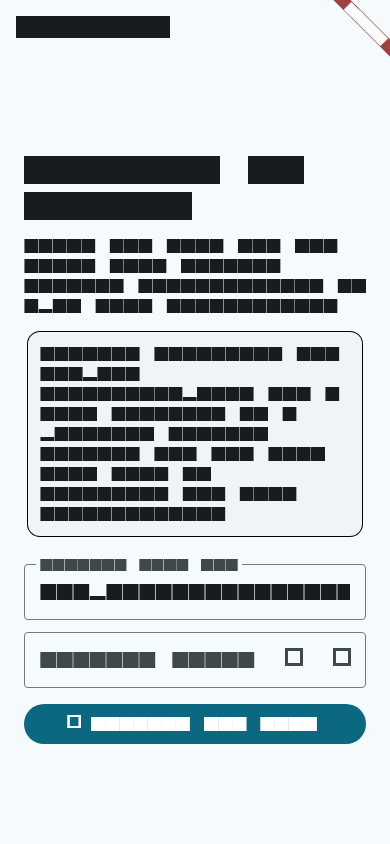
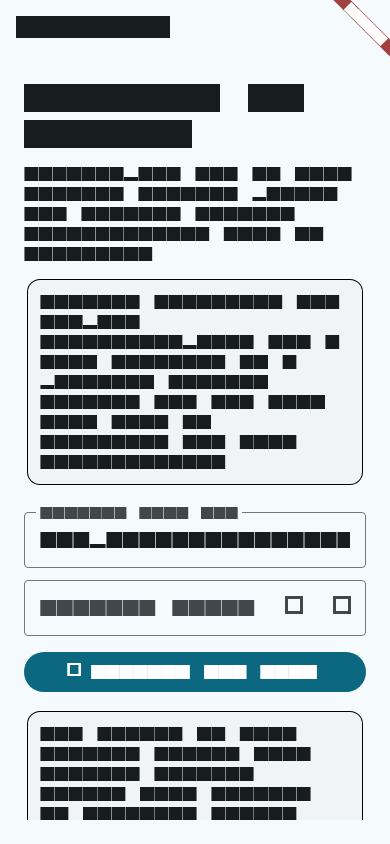
fix: refresh profiles and stabilize setup tests

diff --git a/test/core/channel/gateway_navivox_channel_test.dart b/test/core/channel/gateway_navivox_channel_test.dart
@@ -178,6 +178,97 @@ void main() {
     },
   );
 
+  test('requestAgentList refreshes Gormes profile contacts', () async {
+    var contacts = <Map<String, Object?>>[
+      {
+        'server_id': 'local-gormes',
+        'profile_id': 'mineru',
+        'display_name': 'Mineru Builder',
+        'server_label': 'local',
+        'health': 'online',
+        'latest_preview': 'Initial profile snapshot',
+        'workspace_root_count': 1,
+        'workspace_roots_ok': true,
+        'attention_badges': <String>[],
+        'mic_available': true,
+        'active_turn_state': 'idle',
+      },
+    ];
+    final server = await _FakeGatewayServer.start(
+      contactsProvider: () => contacts,
+    );
+    addTearDown(server.close);
+
+    final channel = GatewayNavivoxChannel();
+    addTearDown(channel.dispose);
+
+    await channel.connect(
+      baseUrl: server.baseUrl,
+      token: _FakeGatewayServer.token,
+    );
+
+    expect(
+      channel.state.profileContacts.single.latestPreview,
+      'Initial profile snapshot',
+    );
+
+    contacts = [
+      {
+        'server_id': 'local-gormes',
+        'profile_id': 'mineru',
+        'display_name': 'Mineru Builder',
+        'server_label': 'local',
+        'health': 'warning',
+        'latest_preview': 'Refreshed profile snapshot',
+        'workspace_root_count': 2,
+        'workspace_roots_ok': false,
+        'workspace_roots_warning': 1,
+        'workspace_roots_error': 0,
+        'attention_badges': ['workspace'],
+        'mic_available': false,
+        'active_turn_state': 'idle',
+      },
+    ];
+
+    final refreshed = Completer<void>();
+    channel.addListener(() {
+      final stateContacts = channel.state.profileContacts;
+      if (stateContacts.length == 1 &&
+          stateContacts.single.latestPreview == 'Refreshed profile snapshot' &&
+          !refreshed.isCompleted) {
+        refreshed.complete();
+      }
+    });
+
+    channel.requestAgentList();
+    await refreshed.future.timeout(const Duration(seconds: 2));
+
+    final contact = channel.state.profileContacts.single;
+    expect(contact.latestPreview, 'Refreshed profile snapshot');
+    expect(contact.health, NavivoxProfileHealth.warning);
+    expect(contact.workspaceRootCount, 2);
+    expect(contact.workspaceRootsOk, isFalse);
+  });
+
+  test('requestAgentList does not repeat unavailable refresh guidance', () async {
+    final channel = GatewayNavivoxChannel();
+    addTearDown(channel.dispose);
+
+    channel.requestAgentList();
+    channel.requestAgentList();
+    await Future<void>.delayed(Duration.zero);
+
+    final refreshMessages = channel.state.messagesList
+        .where(
+          (message) =>
+              message.author == NavivoxMessageAuthor.system &&
+              message.text == 'Connect to Gormes to refresh profiles.',
+        )
+        .toList();
+
+    expect(refreshMessages, hasLength(1));
+  });
+
   test(
     'voice transcript renders locally and submits as a gateway turn',
     () async {
@@ -435,6 +526,7 @@ class _FakeGatewayServer {
     this.port,
     this._streamEvents,
     this._contacts,
+    this._contactsProvider,
   );
 
   static const token = 'nvbx_test_token';
@@ -443,6 +535,7 @@ class _FakeGatewayServer {
   final int port;
   final List<Map<String, Object?>> Function(String requestId)? _streamEvents;
   final List<Map<String, Object?>>? _contacts;
+  final List<Map<String, Object?>> Function()? _contactsProvider;
   final Completer<Map<String, Object?>> _nextClientMessage = Completer();
 
   String get baseUrl => 'http://127.0.0.1:$port';
@@ -452,6 +545,7 @@ class _FakeGatewayServer {
   static Future<_FakeGatewayServer> start({
     List<Map<String, Object?>> Function(String requestId)? streamEvents,
     List<Map<String, Object?>>? contacts,
+    List<Map<String, Object?>> Function()? contactsProvider,
   }) async {
     final server = await HttpServer.bind(InternetAddress.loopbackIPv4, 0);
     final fake = _FakeGatewayServer._(
@@ -459,6 +553,7 @@ class _FakeGatewayServer {
       server.port,
       streamEvents,
       contacts,
+      contactsProvider,
     );
     server.listen(fake._handle);
     return fake;
@@ -483,28 +578,7 @@ class _FakeGatewayServer {
       return;
     }
     if (request.uri.path == '/v1/navivox/profile-contacts') {
-      _writeJson(request.response, {
-        'contacts':
-            _contacts ??
-            [
-              {
-                'server_id': 'navivox-gateway',
-                'profile_id': 'default',
-                'display_name': 'Default profile',
-                'server_label': 'Gormes Gateway',
-                'health': 'online',
-                'latest_preview': 'Gateway online',
-                'latest_preview_kind': 'status',
-                'workspace_root_count': 1,
-                'workspace_roots_ok': true,
-                'workspace_roots_warning': 0,
-                'workspace_roots_error': 0,
-                'attention_badges': <String>[],
-                'mic_available': true,
-                'active_turn_state': 'idle',
-              },
-            ],
-      });
+      _writeJson(request.response, {'contacts': _profileContacts()});
       return;
     }
     if (request.uri.path == '/v1/navivox/stream') {
@@ -523,6 +597,29 @@ class _FakeGatewayServer {
     }
     request.response.statusCode = HttpStatus.notFound;
     await request.response.close();
+  }
+
+  List<Map<String, Object?>> _profileContacts() {
+    return _contactsProvider?.call() ??
+        _contacts ??
+        [
+          {
+            'server_id': 'navivox-gateway',
+            'profile_id': 'default',
+            'display_name': 'Default profile',
+            'server_label': 'Gormes Gateway',
+            'health': 'online',
+            'latest_preview': 'Gateway online',
+            'latest_preview_kind': 'status',
+            'workspace_root_count': 1,
+            'workspace_roots_ok': true,
+            'workspace_roots_warning': 0,
+            'workspace_roots_error': 0,
+            'attention_badges': <String>[],
+            'mic_available': true,
+            'active_turn_state': 'idle',
+          },
+        ];
   }
 
   bool _authorized(HttpRequest request) {

diff --git a/lib/core/channel/gateway_navivox_channel.dart b/lib/core/channel/gateway_navivox_channel.dart
@@ -272,7 +272,39 @@ class GatewayNavivoxChannel extends ChangeNotifier implements NavivoxChannel {
 
   @override
   void requestAgentList() {
-    _appendSystemMessage('Agent listing is not available on this channel yet.');
+    unawaited(_refreshProfileContacts());
+  }
+
+  Future<void> _refreshProfileContacts() async {
+    final client = _client;
+    if (client == null) {
+      _appendSystemMessage('Connect to Gormes to refresh profiles.');
+      return;
+    }
+    try {
+      final contactPayloads = await client.profileContacts();
+      final profileContacts = contactPayloads
+          .map(_profileContactFromJson)
+          .toList(growable: false);
+      final contacts = profileContacts.isEmpty
+          ? [_fallbackProfileContact()]
+          : profileContacts;
+      final selectedKey =
+          contacts.any(
+            (contact) => contact.key == _state.selectedProfileContactKey,
+          )
+          ? _state.selectedProfileContactKey
+          : contacts.first.key;
+      _state = _state.copyWith(
+        servers: _serversFromProfileContacts(contacts, client.config),
+        activeServerId: contacts.first.serverId,
+        profileContacts: contacts,
+        selectedProfileContactKey: selectedKey,
+      );
+      notifyListeners();
+    } catch (_) {
+      _appendSystemMessage('Could not refresh Gormes profiles.');
+    }
   }
 
   @override
@@ -593,6 +625,14 @@ class GatewayNavivoxChannel extends ChangeNotifier implements NavivoxChannel {
   }
 
   void _appendSystemMessage(String text) {
+    final messages = _state.messagesList;
+    final lastMessage = messages.isEmpty ? null : messages.last;
+    if (lastMessage?.author == NavivoxMessageAuthor.system &&
+        lastMessage?.kind == NavivoxMessageKind.text &&
+        lastMessage?.text == text) {
+      return;
+    }
+
     _putMessage(
       NavivoxChatMessage(
         id: _uuid.v4(),

diff --git a/test/e2e/connect_and_talk_web_e2e_test.dart b/test/e2e/connect_and_talk_web_e2e_test.dart
@@ -9,6 +9,9 @@ void main() {
   testWidgets('web browser e2e failed setup keeps token secret and retryable', (
     tester,
   ) async {
+    await tester.binding.setSurfaceSize(const Size(900, 1200));
+    addTearDown(() => tester.binding.setSurfaceSize(null));
+
     final channel = FailingConnectChannel();
     addTearDown(channel.dispose);
 
@@ -28,7 +31,8 @@ void main() {
       find.widgetWithText(TextField, 'Pairing token'),
       'nvbx_super_secret_token',
     );
-    await tester.tap(find.text('Connect and talk'));
+    await tester.ensureVisible(_connectAndTalkButton());
+    await tester.tap(_connectAndTalkButton());
     await tester.pumpAndSettle();
 
     expect(find.text('Could not connect to Gormes gateway.'), findsOneWidget);
@@ -44,6 +48,9 @@ void main() {
   testWidgets('web browser e2e connects from setup and sends first text turn', (
     tester,
   ) async {
+    await tester.binding.setSurfaceSize(const Size(900, 1200));
+    addTearDown(() => tester.binding.setSurfaceSize(null));
+
     final channel = ConnectAndTalkChannel();
     addTearDown(channel.dispose);
 
@@ -68,7 +75,8 @@ void main() {
       find.widgetWithText(TextField, 'Pairing token'),
       'nvbx_test_token',
     );
-    await tester.tap(find.text('Connect and talk'));
+    await tester.ensureVisible(_connectAndTalkButton());
+    await tester.tap(_connectAndTalkButton());
     await tester.pumpAndSettle();
 
     expect(channel.connectedBaseUrl, 'http://127.0.0.1:8765');
@@ -91,6 +99,13 @@ void main() {
     expect(find.text('hello from gateway'), findsOneWidget);
     expect(_caseInsensitiveText('telephony'), findsNothing);
   });
+}
+
+Finder _connectAndTalkButton() {
+  return find.ancestor(
+    of: find.text('Connect and talk'),
+    matching: find.byWidgetPredicate((widget) => widget is ButtonStyleButton),
+  );
 }
 
 Finder _visibleTextContaining(String needle) {

diff --git a/test/features/setup/setup_token_visibility_test.dart b/test/features/setup/setup_token_visibility_test.dart
@@ -7,6 +7,9 @@ void main() {
   testWidgets('pairing token can be shown and hidden without losing text', (
     tester,
   ) async {
+    await tester.binding.setSurfaceSize(const Size(900, 1200));
+    addTearDown(() => tester.binding.setSurfaceSize(null));
+
     await tester.pumpWidget(
       const ProviderScope(child: MaterialApp(home: SetupScreen())),
     );
@@ -18,18 +21,26 @@ void main() {
     expect(find.byTooltip('Show pairing token'), findsOneWidget);
 
     await tester.enterText(tokenFieldFinder, 'nvbx_visible_when_requested');
-    await tester.tap(find.byTooltip('Show pairing token'));
+    await tester.ensureVisible(_tokenVisibilityButton('Show pairing token'));
+    await tester.tap(_tokenVisibilityButton('Show pairing token'));
     await tester.pump();
 
     expect(tokenField().obscureText, isFalse);
     expect(find.byTooltip('Hide pairing token'), findsOneWidget);
     expect(tokenField().controller?.text, 'nvbx_visible_when_requested');
 
-    await tester.tap(find.byTooltip('Hide pairing token'));
+    await tester.ensureVisible(_tokenVisibilityButton('Hide pairing token'));
+    await tester.tap(_tokenVisibilityButton('Hide pairing token'));
     await tester.pump();
 
     expect(tokenField().obscureText, isTrue);
     expect(find.byTooltip('Show pairing token'), findsOneWidget);
     expect(tokenField().controller?.text, 'nvbx_visible_when_requested');
   });
+}
+
+Finder _tokenVisibilityButton(String tooltip) {
+  return find.byWidgetPredicate(
+    (widget) => widget is IconButton && widget.tooltip == tooltip,
+  );
 }

diff --git a/test/features/chat/profile_contact_list_test.dart b/test/features/chat/profile_contact_list_test.dart
@@ -317,7 +317,8 @@ void main() {
       find.byKey(const ValueKey('profile-contact-office-support')),
       findsOneWidget,
     );
-    expect(find.byType(NavigationBar), findsOneWidget);
+    expect(find.byType(NavigationBar), findsNothing);
+    expect(find.byTooltip('Open navigation menu'), findsOneWidget);
   });
 
   testWidgets('long pressing a profile opens diagnostics and scoped actions', (

diff --git a/TODO.md b/TODO.md
@@ -1,5 +1,10 @@
 # Navivox TODO
 
+[RESOLVED] Commit/push screenshot iteration 1 repeated agent-list message slice — 2026-05-22 16:23 CST
+  resolved: 2026-05-22 16:45 CST
+  evidence: `flutter analyze`, `flutter test`, and `git diff --check` all passed after fixing stale E2E/control finders, the profile-contact back-button expectation, and the README setup screenshot golden.
+  owner: Navivox app owner / Mineru
+
 [BLOCKED] Commit/push Transcript surface plan and context updates — 2026-05-20 20:56 CST
   blocker: `navivox-app` is untracked inside parent repo `/home/xel/git/sages-openclaw`, so committing only plan/context files would add a partial project tree.
   evidence: `git rev-parse --show-toplevel` => `/home/xel/git/sages-openclaw`; `git status --short -- /home/xel/git/sages-openclaw/workspace-mineru/navivox-app` => `?? workspace-mineru/navivox-app/`.